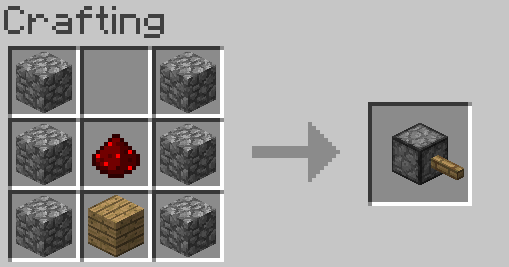
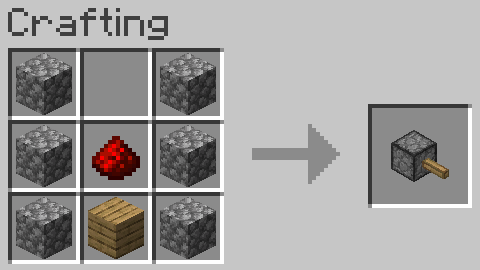
Updated README images to match new screens and recipes

Changed region(s): [[0.0, 0.0, 0.4688, 0.9888], [0.5938, 0.3596, 1.0, 0.779], [0.5, 0.5393, 0.5312, 0.5993]]

diff --git a/README.md b/README.md
@@ -1,22 +1,27 @@
-<p align="center">
-	<img src="https://raw.githubusercontent.com/Daniel-Mendes/Simply-Caterpillar/feature/1.19/.github/sources/simplycaterpillar.png" alt="simplycaterpillar icon" style="zoom:30%;" />
-	<img src="https://raw.githubusercontent.com/Daniel-Mendes/Simply-Caterpillar/feature/1.19/.github/sources/simply-caterpillar-title.png" alt="simply-caterpillar-title" />
-</p>
+<div align="center">
+	<img src=".github/sources/simply-caterpillar-logo.png" alt="Simply Caterpillar icon" width="300" />
+</div>
 
-<p align="center">
+<div align="center">
+    <img src=".github/sources/simply-caterpillar-title.png" alt="Simply Caterpillar title" />
+</div>
+
+<div align="center">
 	<a href="https://github.com/The-Fireplace-Minecraft-Mods/Simply-Caterpillar" target="_blank">Source code</a>
     |
    	<a href="https://github.com/The-Fireplace-Minecraft-Mods/Simply-Caterpillar/issues" target="_blank">Issue tracker</a>
-</p>
+</div>
 
-<p align="center">
+<div align="center">
     <a href="https://minecraft.curseforge.com/projects/simply-caterpillar" target="_blank">
-		<img src="https://raw.githubusercontent.com/Daniel-Mendes/Simply-Caterpillar/feature/1.19/.github/sources/curseforge-badge.png" alt="Curse Forge download link" />
-	</a>
+        <img src=".github/sources/curseforge-badge.png" alt="Curse Forge download link" />
+    </a>
     <a href="https://modrinth.com/mod/simply-caterpillar" target="_blank">
-        <img src="https://raw.githubusercontent.com/Daniel-Mendes/Simply-Caterpillar/feature/1.19/.github/sources/modrinth-badge.png" alt="modrinth download link" />
-	</a>
-</p>
+        <img src=".github/sources/modrinth-badge.png" alt="modrinth download link" />
+    </a>
+</div>
+
+-------
 
 **Simply Caterpillar** adds a drill that makes 3x3 mineshafts for you. You can add or not add any part to customize your drill.
 
@@ -28,11 +33,11 @@
 
 ### Drill base
 
-**This is the drill base, its used for all parts**
+This is the drill base, it's used for all parts.
 
 #### Recipe
 
-![Drill base recipe](https://raw.githubusercontent.com/Daniel-Mendes/Simply-Caterpillar/feature/1.19/.github/sources/recipe-drill_base.png)
+![Drill base recipe](.github/sources/recipe-drill_base.png)
 
 ### Drill head
 
@@ -40,11 +45,11 @@ The main part of the drill. Has 24 slots of storage built in, and a fuel slot. P
 
 #### Screen
 
-![Drill head screen](https://raw.githubusercontent.com/Daniel-Mendes/Simply-Caterpillar/feature/1.19/.github/sources/screen-drill_head.png)
+<img src=".github/sources/screen-drill_head.png" alt="Drill head screen" width="480" />
 
 #### Recipe
 
-![Drill head recipe](https://raw.githubusercontent.com/Daniel-Mendes/Simply-Caterpillar/feature/1.19/.github/sources/recipe-drill_head.png)
+![Drill head recipe](.github/sources/recipe-drill_head.png)
 
 ### Item Collector
 
@@ -52,7 +57,7 @@ Collects fallen items as it moves, and puts them in the caterpillar's inventory.
 
 #### Recipe
 
-![Collector recipe](https://raw.githubusercontent.com/Daniel-Mendes/Simply-Caterpillar/feature/1.19/.github/sources/recipe-collector.png)
+![Collector recipe](.github/sources/recipe-collector.png)
 
 ### Decoration placer
 
@@ -60,13 +65,13 @@ Builds the inside of the mineshaft. By default, it is set up to make it resemble
 
 #### Screen
 
-![Decoration placer screen](https://raw.githubusercontent.com/Daniel-Mendes/Simply-Caterpillar/feature/1.19/.github/sources/screen-decoration.png)
+<img src=".github/sources/screen-decoration.png" alt="Decoration placer screen" width="480" />
 
 This is where you edit the decorations to be placed. By default, it places them similarly to the vanilla mineshafts.
 
 #### Recipe
 
-![Decoration placer recipe](https://raw.githubusercontent.com/Daniel-Mendes/Simply-Caterpillar/feature/1.19/.github/sources/recipe-decoration.png)
+![Decoration placer recipe](.github/sources/recipe-decoration.png)
 
 ### Reinforcement placer
 
@@ -74,13 +79,13 @@ Replaces gravel/sand, lava, water, and air in the square surrounding the minesha
 
 #### Screen
 
-![Reinforcement placer screen](https://raw.githubusercontent.com/Daniel-Mendes/Simply-Caterpillar/feature/1.19/.github/sources/screen-reinforcement.png)
+<img src=".github/sources/screen-reinforcement.png" alt="Reinforcement placer screen" width="480" />
 
 Edit the blocks used to reinforce the walls here and what gets replaced, so you can keep water, lava, sand, gravel, etc out of your mineshaft, or build yourself a floor to walk on, and walls and a ceiling if you wish.
 
 #### Recipe
 
-![Reinforcement placer recipe](https://raw.githubusercontent.com/Daniel-Mendes/Simply-Caterpillar/feature/1.19/.github/sources/recipe-reinforcement.png)
+![Reinforcement placer recipe](.github/sources/recipe-reinforcement.png)
 
 ### Incinerator
 
@@ -88,19 +93,23 @@ Set anything you don't want to keep to be incinerated here. This allows you to d
 
 #### Screen
 
-![Incinerator screen](https://raw.githubusercontent.com/Daniel-Mendes/Simply-Caterpillar/feature/1.19/.github/sources/screen-incinerator.png)
-
-### Storage
-
-Adds 24 more slots to the drill's inventory.
+<img src=".github/sources/screen-incinerator.png" alt="Incinerator screen" width="480" />
 
 #### Recipe
 
-![Storage recipe](https://raw.githubusercontent.com/Daniel-Mendes/Simply-Caterpillar/feature/1.19/.github/sources/recipe-storage.png)
+![Incinerator recipe](.github/sources/recipe-incinerator.png)
+
+### Storage
+
+Adds 12 more slots to the drill head's inventory.
+
+#### Recipe
+
+![Storage recipe](.github/sources/recipe-storage.png)
 
 ## Credits
 
 - Daniel-Mendes
-- The_Fireplace **[Twitter](https://twitter.com/The_FireplaceMC)** **[Discord](https://discord.gg/CJ6pNEk)**
+- The_Fireplace **[Twitter](https://twitter.com/The_FireplaceMC)** | **[Discord](https://discord.gg/CJ6pNEk)**
 - freethemice
 - Rumaruka
